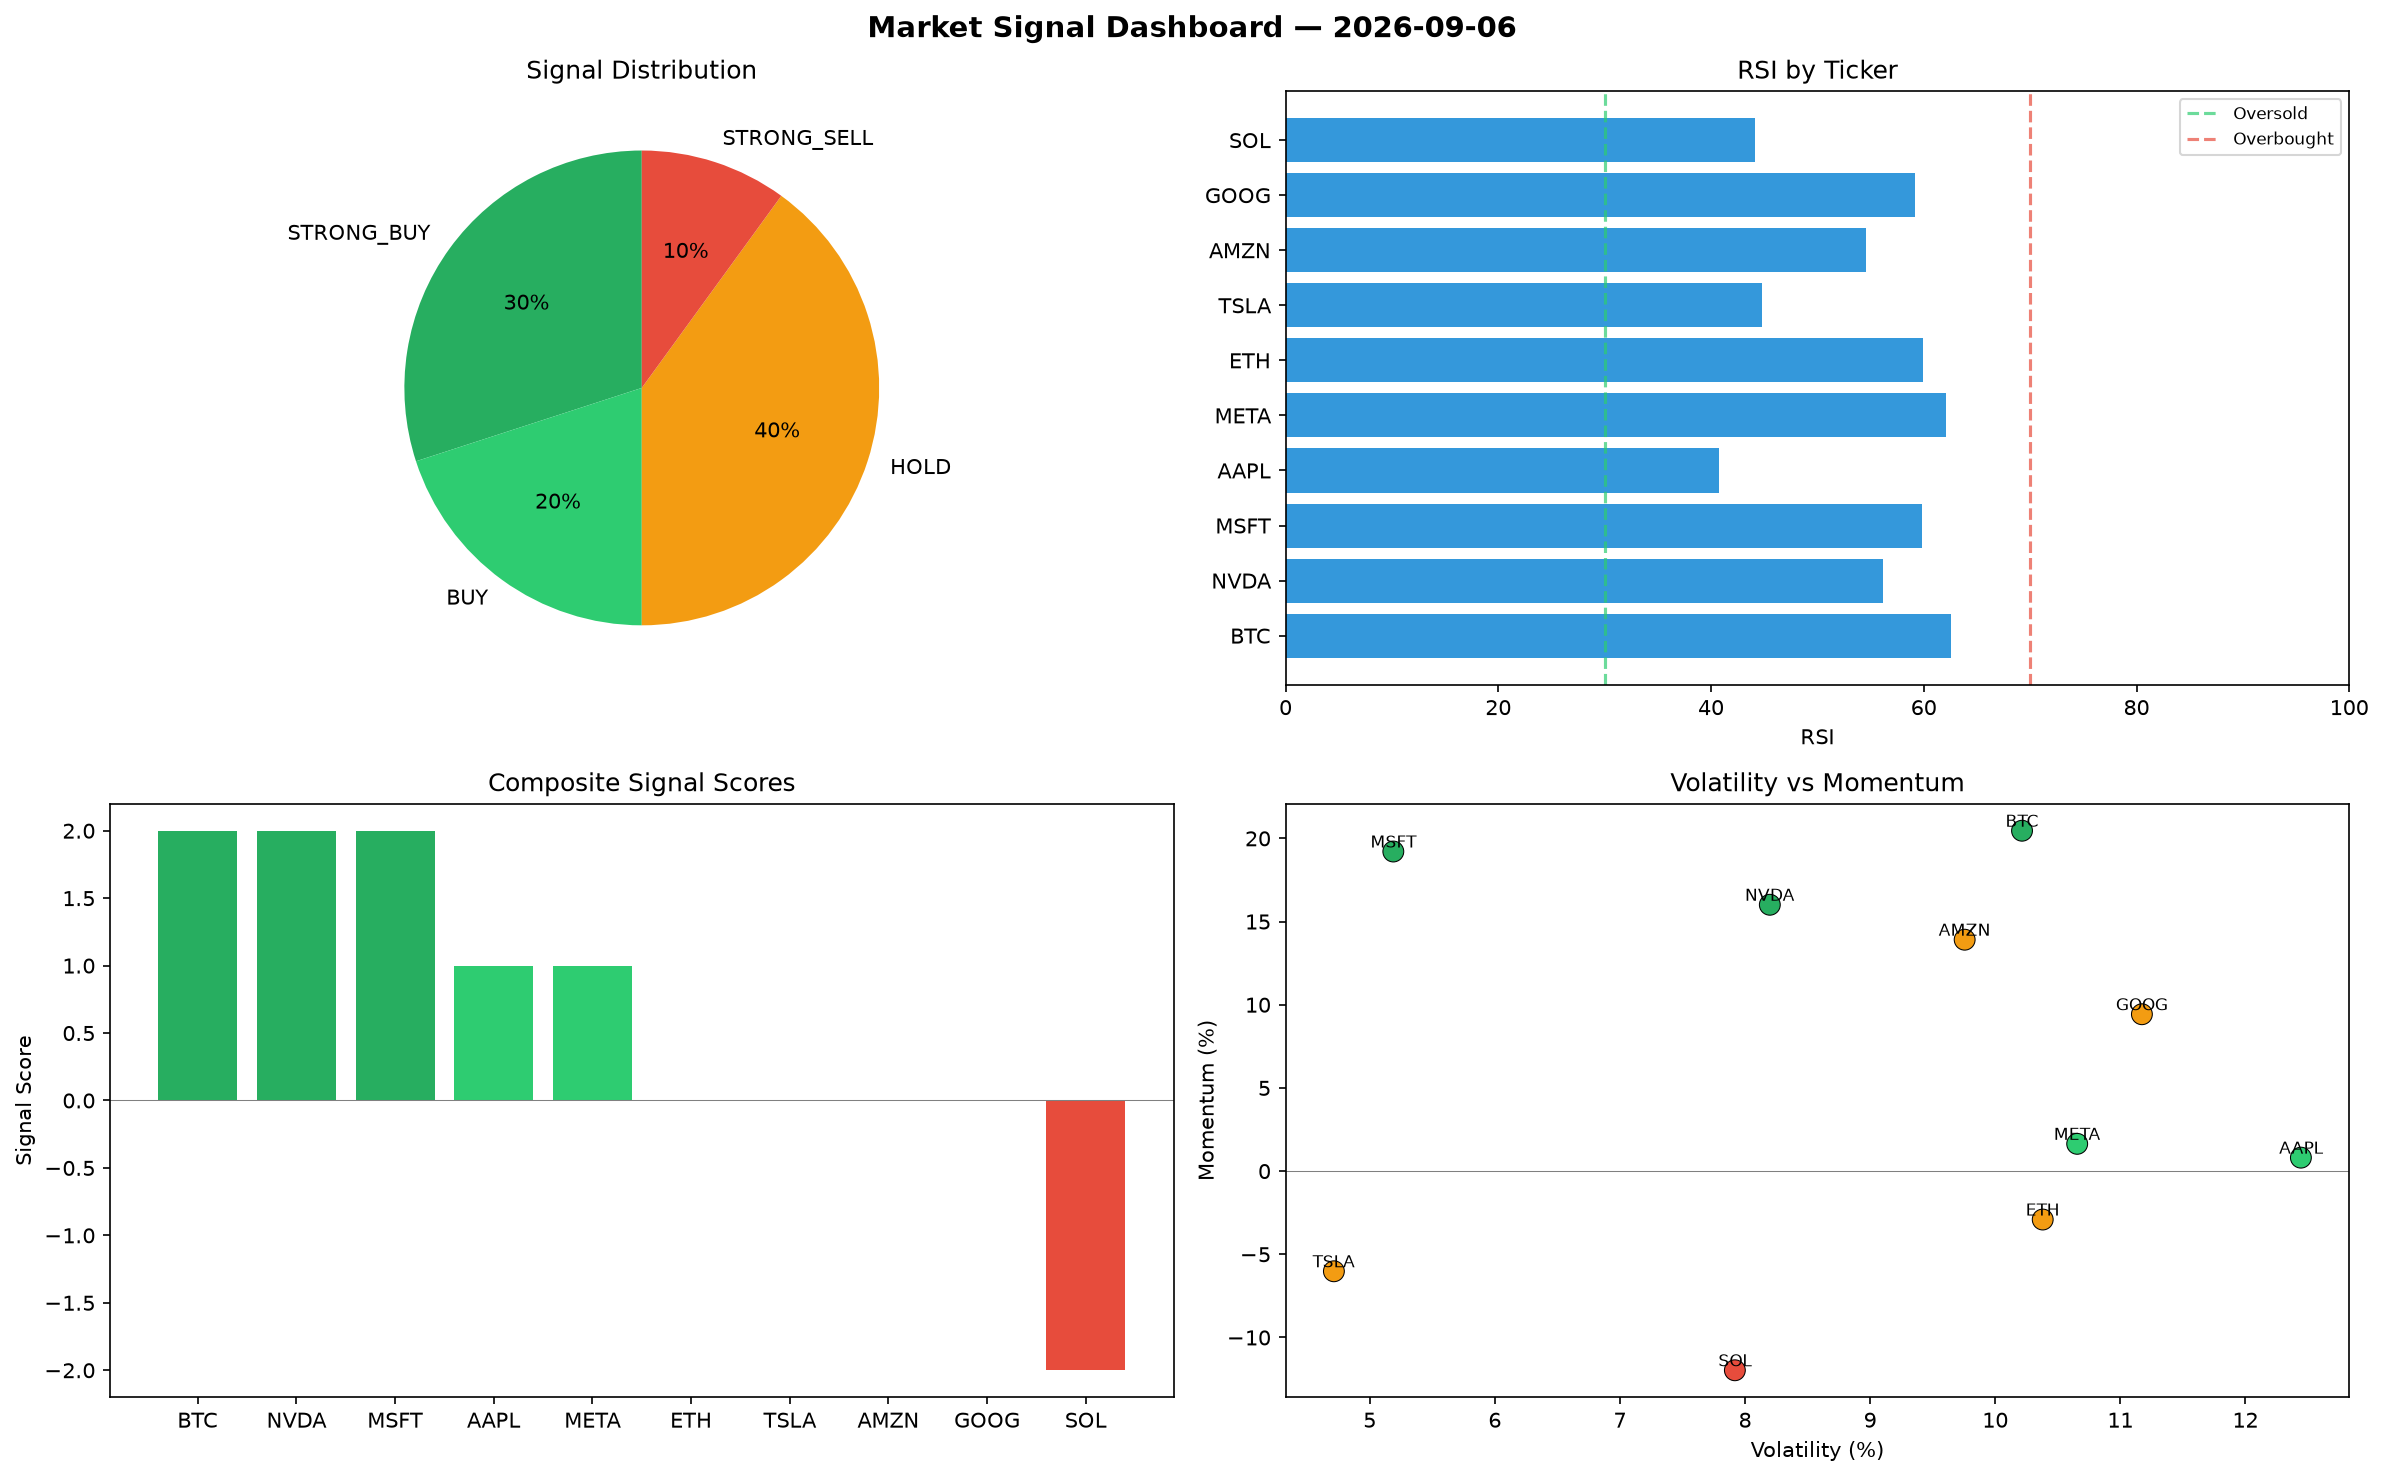
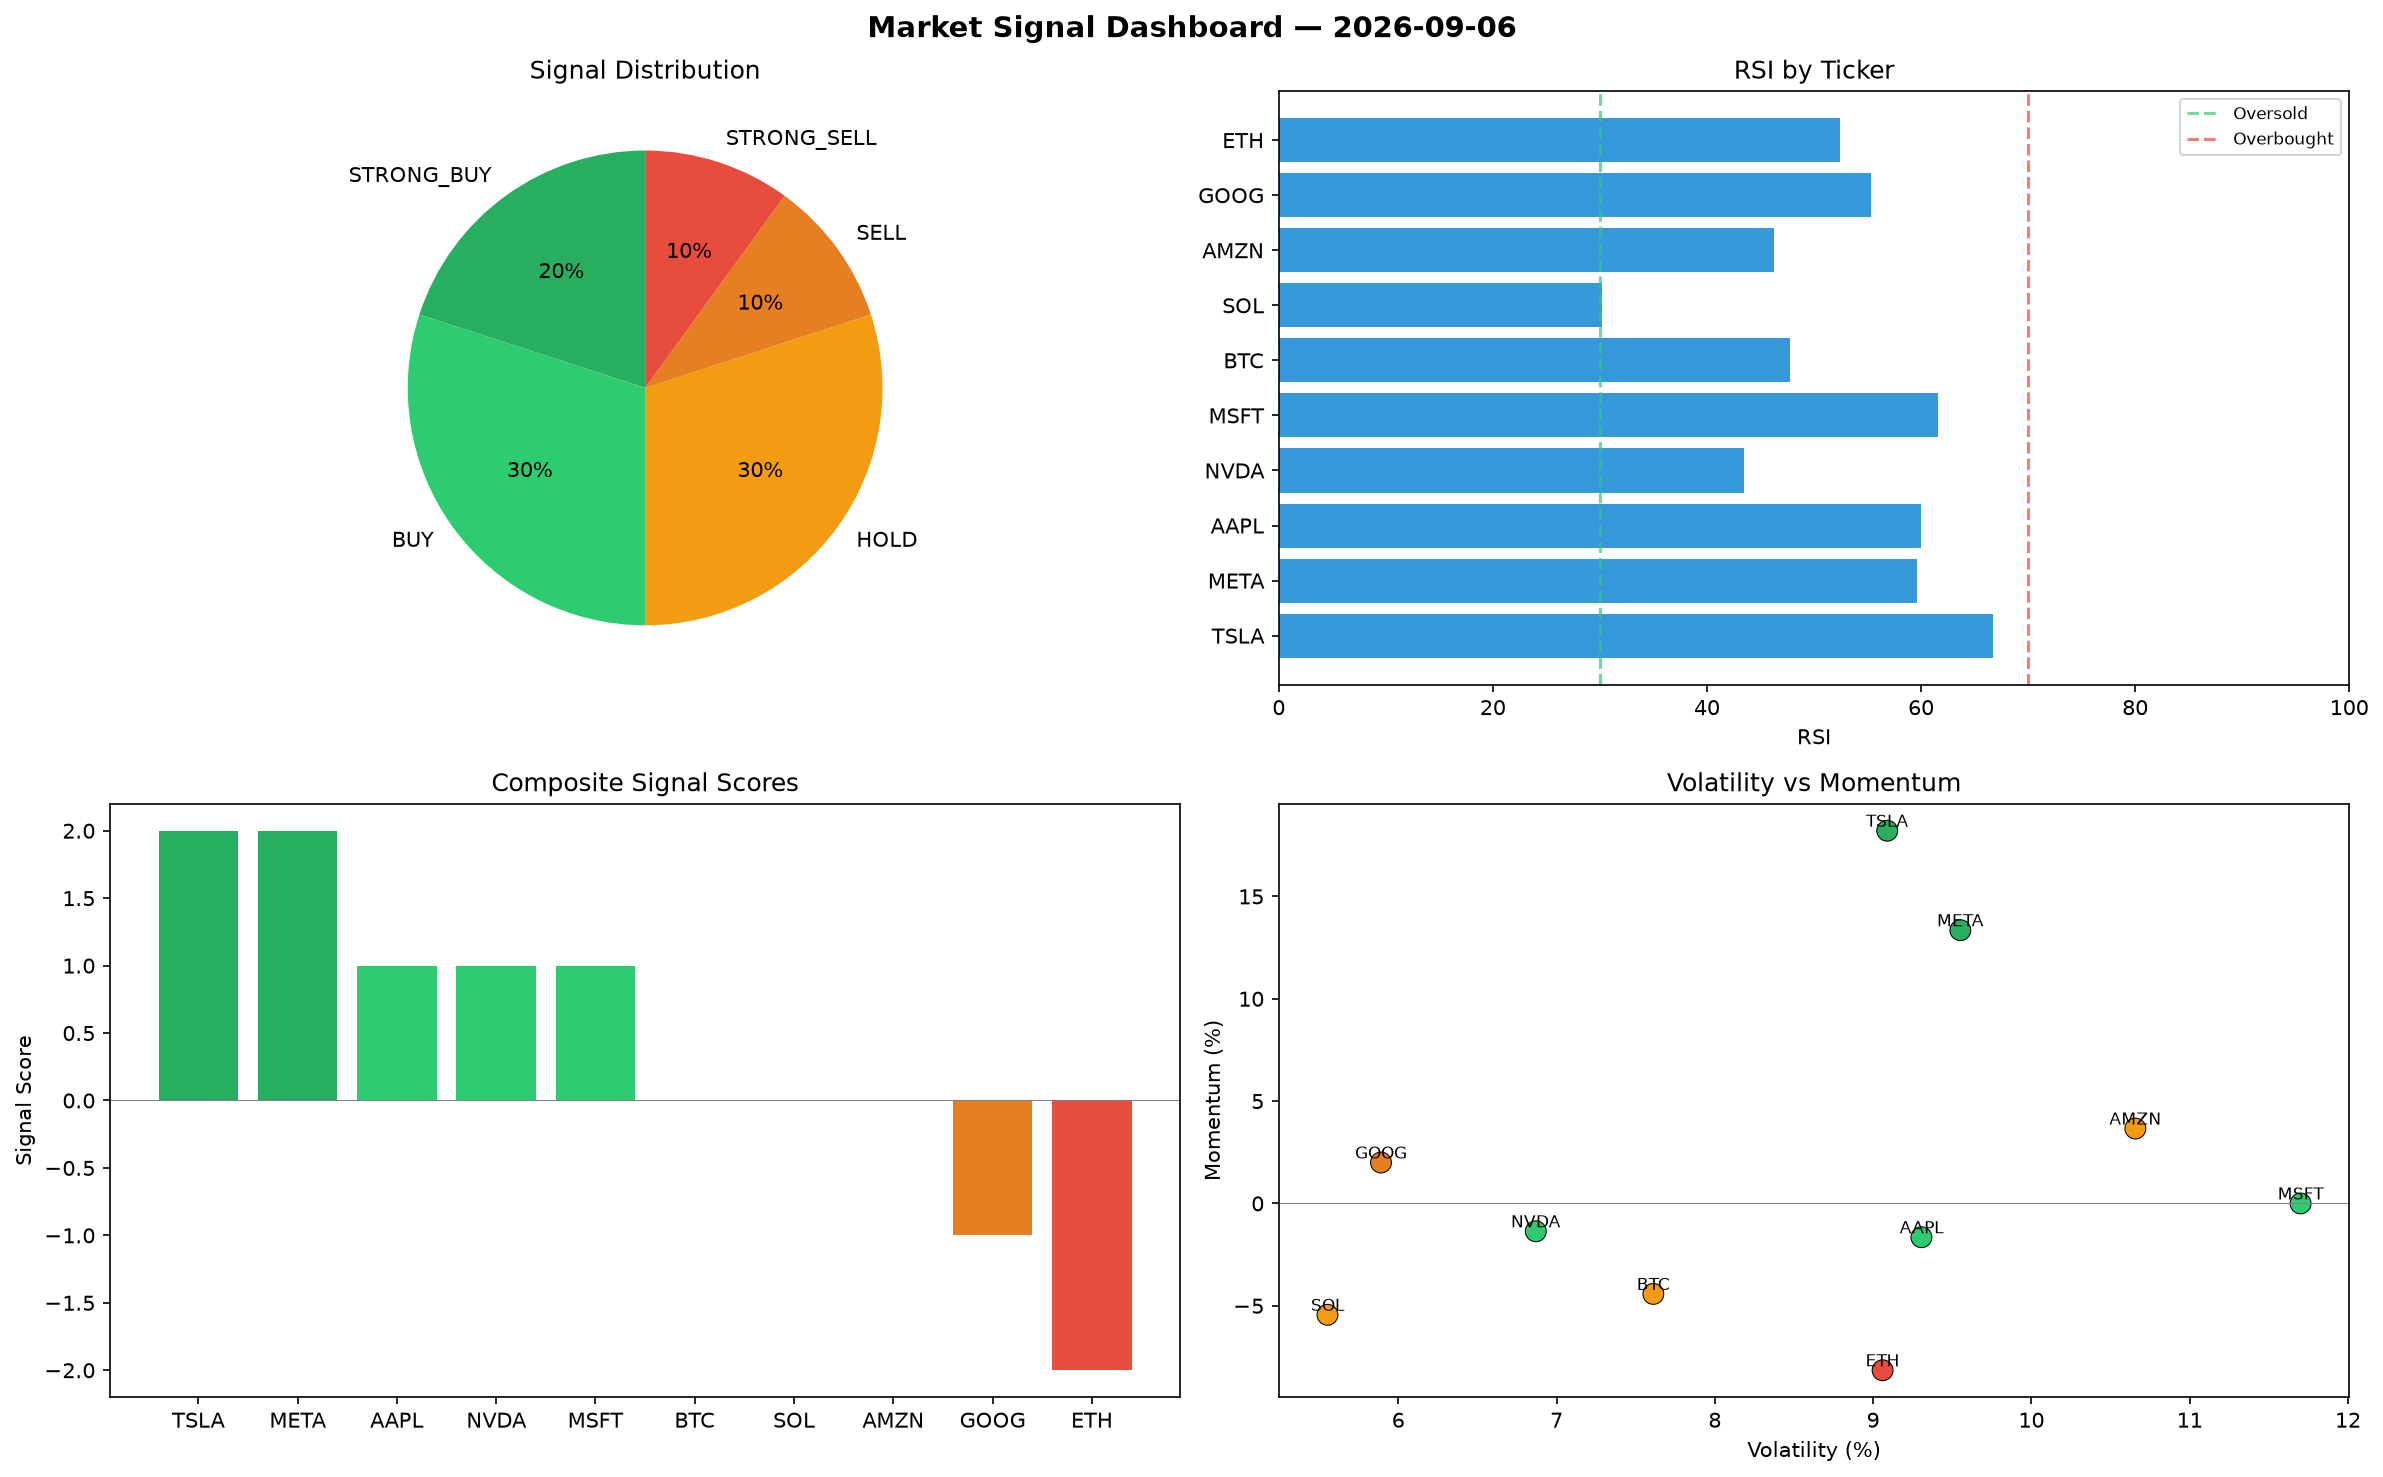
automated-bots: market signals 2026-09-06T22:11

diff --git a/logs/2026-09-06.md b/logs/2026-09-06.md
@@ -1,6 +1,6 @@
 # Market Signal Report — 2026-09-06
 
-**Run ID:** `bda0fa8780` | **Buy:** 5 | **Sell:** 1 | **Hold:** 4
+**Run ID:** `ffe3c75808` | **Buy:** 5 | **Sell:** 2 | **Hold:** 3
 
 ![Dashboard](2026-09-06_dashboard.png)
 
@@ -8,28 +8,28 @@
 
 | Ticker | Price | Signal | Score | RSI | Momentum | Confidence |
 |--------|-------|--------|-------|-----|----------|------------|
-| BTC | $1884.85 | **STRONG_BUY** | 2 | 62.52 | 0.2046 | 0.5 |
-| NVDA | $119.93 | **STRONG_BUY** | 2 | 56.18 | 0.1601 | 0.5 |
-| MSFT | $737.89 | **STRONG_BUY** | 2 | 59.81 | 0.1921 | 0.5 |
-| AAPL | $1652.91 | **BUY** | 1 | 40.72 | 0.0081 | 0.25 |
-| META | $1681.86 | **BUY** | 1 | 62.1 | 0.0164 | 0.25 |
-| ETH | $3662.22 | **HOLD** | 0 | 59.97 | -0.0291 | 0.0 |
-| TSLA | $1563.96 | **HOLD** | 0 | 44.81 | -0.0602 | 0.0 |
-| AMZN | $1125.5 | **HOLD** | 0 | 54.56 | 0.1391 | 0.0 |
-| GOOG | $1936.59 | **HOLD** | 0 | 59.2 | 0.0943 | 0.0 |
-| SOL | $2876.42 | **STRONG_SELL** | -2 | 44.12 | -0.1197 | 0.5 |
+| TSLA | $1976.83 | **STRONG_BUY** | 2 | 66.72 | 0.1821 | 0.5 |
+| META | $5555.33 | **STRONG_BUY** | 2 | 59.66 | 0.1335 | 0.5 |
+| AAPL | $1832.71 | **BUY** | 1 | 60.0 | -0.0165 | 0.25 |
+| NVDA | $4613.3 | **BUY** | 1 | 43.42 | -0.0136 | 0.25 |
+| MSFT | $1450.96 | **BUY** | 1 | 61.54 | 0.0 | 0.25 |
+| BTC | $896.79 | **HOLD** | 0 | 47.78 | -0.0442 | 0.0 |
+| SOL | $629.59 | **HOLD** | 0 | 30.22 | -0.0544 | 0.0 |
+| AMZN | $2201.38 | **HOLD** | 0 | 46.27 | 0.0366 | 0.0 |
+| GOOG | $209.12 | **SELL** | -1 | 55.29 | 0.02 | 0.25 |
+| ETH | $473.36 | **STRONG_SELL** | -2 | 52.46 | -0.0815 | 0.5 |
 
 ## Delta vs Yesterday
 
 | Ticker | Today | Yesterday | Price Change | Signal Changed |
 |--------|-------|-----------|-------------|----------------|
-| BTC | STRONG_BUY | SELL | 📈 141.32% | ⚠ YES |
-| NVDA | STRONG_BUY | STRONG_SELL | 📉 -94.47% | ⚠ YES |
-| MSFT | STRONG_BUY | SELL | 📉 -84.21% | ⚠ YES |
-| AAPL | BUY | BUY | 📉 -67.17% | — |
-| META | BUY | STRONG_BUY | 📈 55.17% | ⚠ YES |
-| ETH | HOLD | SELL | 📈 137.82% | ⚠ YES |
-| TSLA | HOLD | STRONG_BUY | 📉 -63.61% | ⚠ YES |
-| AMZN | HOLD | STRONG_SELL | 📉 -75.61% | ⚠ YES |
-| GOOG | HOLD | STRONG_BUY | 📉 -59.66% | ⚠ YES |
-| SOL | STRONG_SELL | BUY | 📉 -35.31% | ⚠ YES |
+| TSLA | STRONG_BUY | STRONG_BUY | 📉 -54.0% | — |
+| META | STRONG_BUY | STRONG_BUY | 📈 412.55% | — |
+| AAPL | BUY | BUY | 📉 -63.6% | — |
+| NVDA | BUY | STRONG_SELL | 📈 112.88% | ⚠ YES |
+| MSFT | BUY | SELL | 📉 -68.95% | ⚠ YES |
+| BTC | HOLD | SELL | 📈 14.82% | ⚠ YES |
+| SOL | HOLD | BUY | 📉 -85.84% | ⚠ YES |
+| AMZN | HOLD | STRONG_SELL | 📉 -52.3% | ⚠ YES |
+| GOOG | SELL | STRONG_BUY | 📉 -95.64% | ⚠ YES |
+| ETH | STRONG_SELL | SELL | 📉 -69.26% | ⚠ YES |
